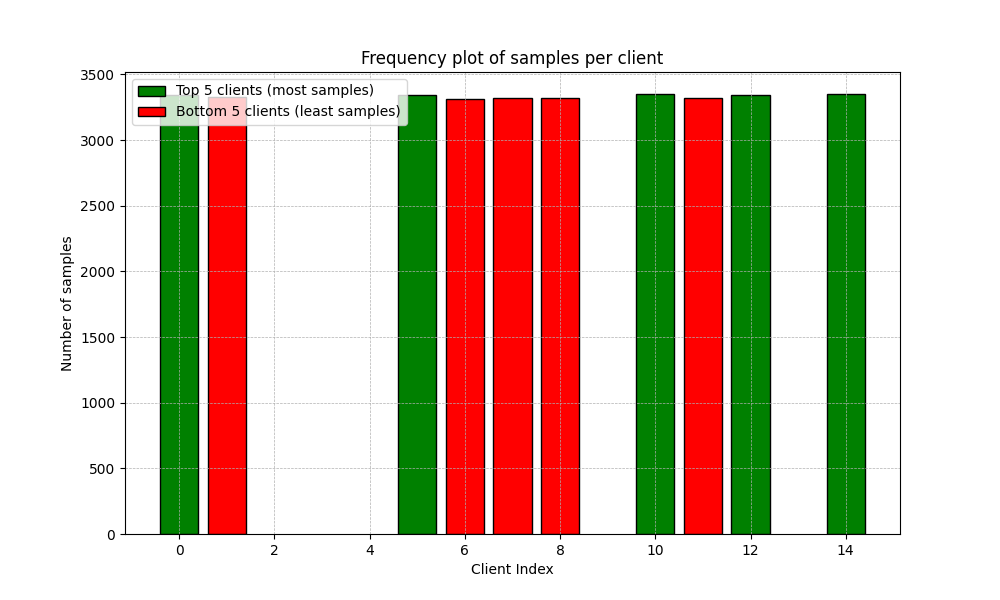
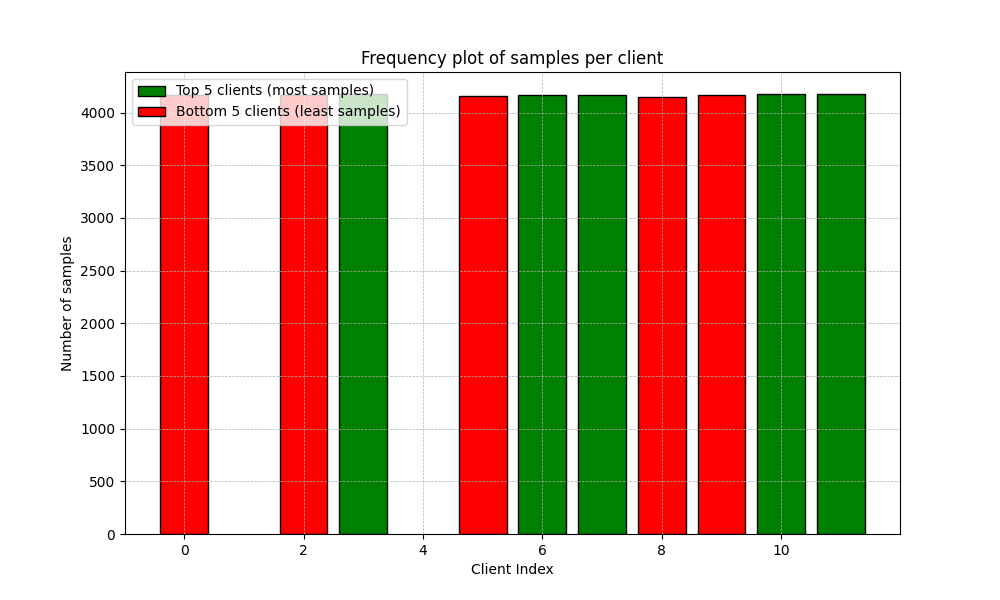
experimented with learning rates and optimizers

diff --git a/Block_Cyclic_Overlapping_Client_Participation/fedml/ml/trainer/my_model_trainer_classification.py b/Block_Cyclic_Overlapping_Client_Participation/fedml/ml/trainer/my_model_trainer_classification.py
@@ -36,12 +36,12 @@ class ModelTrainerCLS(ClientTrainer):
         if args.client_optimizer == "sgd":
             optimizer = torch.optim.SGD(
                 filter(lambda p: p.requires_grad, self.model.parameters()),
-                lr=args.learning_rate,
+                lr=args.learning_rate, momentum=args.momentum, weight_decay=args.weight_decay
             )
            
         elif args.client_optimizer == "CosAnnealing":
             optimizer = torch.optim.SGD(filter(lambda p: p.requires_grad, self.model.parameters()), lr=args.learning_rate, momentum=args.momentum)
-            scheduler = torch.optim.lr_scheduler.CosineAnnealingLR(optimizer=optimizer, T_max=num_epochs, eta_min=1e-4)
+            scheduler = torch.optim.lr_scheduler.CosineAnnealingLR(optimizer=optimizer, T_max=num_epochs, eta_min=0)
         
         else:
             optimizer = torch.optim.Adam(

diff --git a/Block_Cyclic_Overlapping_Client_Participation/fedml/simulation/sp/fedavg/fedavg_api.py b/Block_Cyclic_Overlapping_Client_Participation/fedml/simulation/sp/fedavg/fedavg_api.py
@@ -118,7 +118,7 @@ class FedAvgAPI(object):
                         current_model_params = client.model_trainer.get_model_params()
                         last_aggregated_model_params = client.model_trainer.get_last_aggregated_model_params()
                         globalVSlastAgg = self.sub_ordered_dict(w_global, last_aggregated_model_params)
-                        updated_state_dict = self.add_ordered_dict(1.0, current_model_params, globalVSlastAgg)  
+                        updated_state_dict = self.add_ordered_dict(self.args.alpha_active, current_model_params, globalVSlastAgg)  
                         client.model_trainer.set_model_params(updated_state_dict)
                         mlops.event("train", event_started=True, event_value="{}_{}".format(str(round_idx), str(idx)))
                         w = client.train()

diff --git a/Block_Cyclic_Overlapping_Client_Participation/fedml/data/MNIST/data_loader.py b/Block_Cyclic_Overlapping_Client_Participation/fedml/data/MNIST/data_loader.py
@@ -434,7 +434,7 @@ def load_partition_data_mnist_by_device_id(batch_size, device_id, train_path="MN
 def load_partition_data_mnist(
     args, batch_size
 ):
-    users, groups, train_data, test_data = read_data_dirichlet(10000,num_clients=args.client_num_in_total, pytorch_dataset = args.dataset)
+    users, groups, train_data, test_data = read_data_dirichlet(args.alpha_dirichlet,num_clients=args.client_num_in_total, pytorch_dataset = args.dataset)
 
     if len(groups) == 0:
         groups = [None for _ in users]
